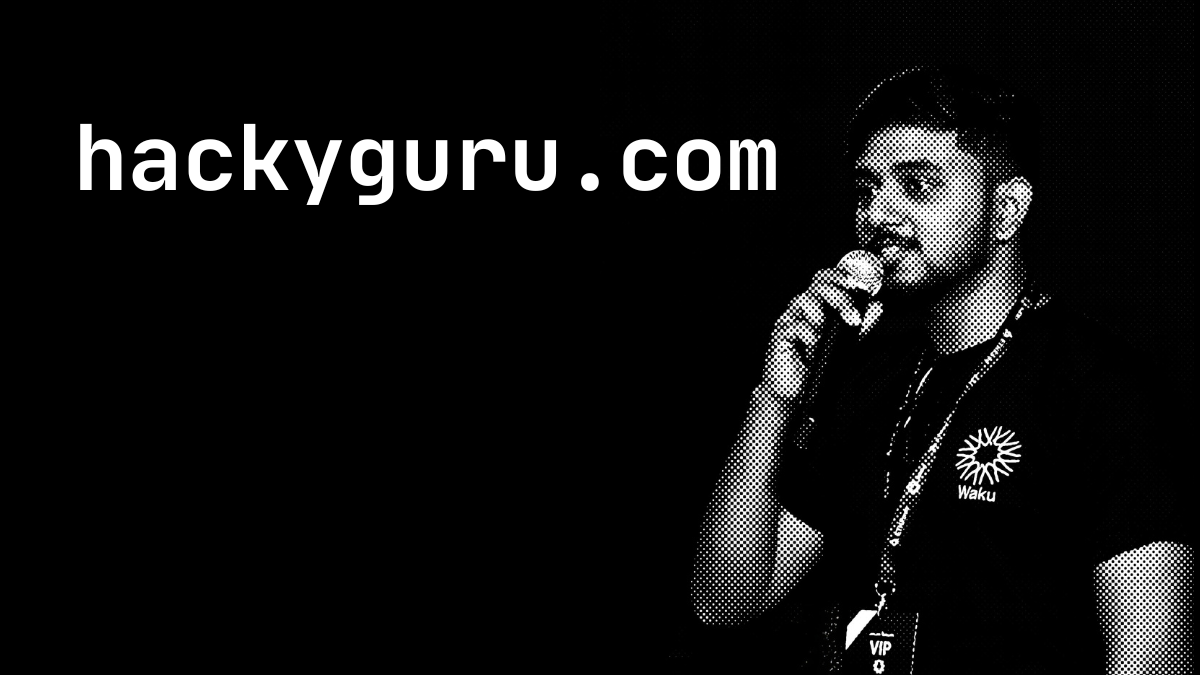
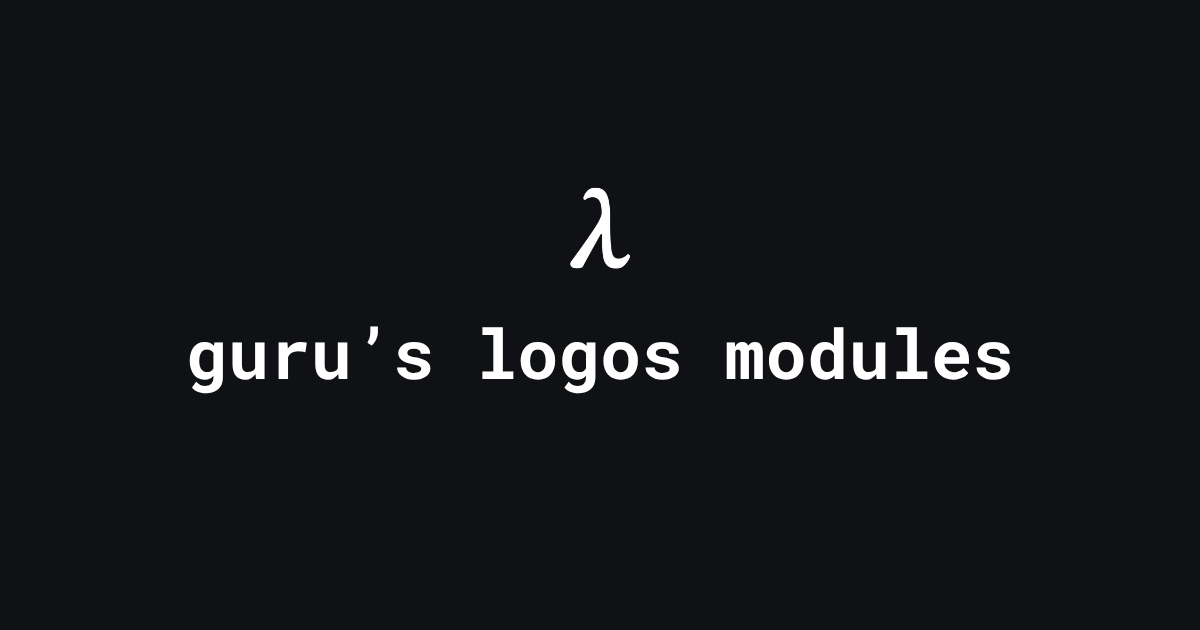
Site: use the modules-specific social card
Replaces hackyguru.com's generic card with the one made for this site —
λ over "guru's logos modules" on the page's own background, so a shared
link looks like the thing it points at.

1200x630 (1.91:1), the ratio X and Facebook crop toward, so nothing gets
clipped; the old card was 16:9 and lost a sliver top and bottom. Also
17,611 bytes against 286,689.

Adds og:image:type and og/twitter image alt text while here.

diff --git a/site/gen_site.py b/site/gen_site.py
@@ -197,11 +197,10 @@ def main():
     site_url = repo["homepage"]
     title = repo.get("displayName", "Guru's Logos Modules")
     description = repo["description"]
-    # Same social card as hackyguru.com. The original is served from a
-    # token-signed opengraph.b-cdn.net URL, so it's vendored as site/og.png
-    # rather than hotlinked — the token would eventually stop resolving and
-    # every shared link would lose its preview. favicon.ico is already the
-    # same file as hackyguru.com's (identical sha256).
+    # Social card for this site specifically, in the same theme as the page
+    # (site/og.png). 1200x630 is the 1.91:1 ratio X and Facebook crop toward,
+    # so nothing important gets clipped. favicon.ico is already the same file
+    # as hackyguru.com's (identical sha256).
     og_image = f"{site_url}/og.png"
     site_ld = json.dumps({
         "@context": "https://schema.org",
@@ -238,7 +237,10 @@ def main():
 <meta property="og:url" content="{site_url}">
 <meta property="og:image" content="{og_image}">
 <meta property="og:image:width" content="1200">
-<meta property="og:image:height" content="675">
+<meta property="og:image:height" content="630">
+<meta property="og:image:type" content="image/png">
+<meta property="og:image:alt" content="{html.escape(title)}">
+<meta name="twitter:image:alt" content="{html.escape(title)}">
 <meta property="og:locale" content="en_US">
 
 <!-- Twitter -->
